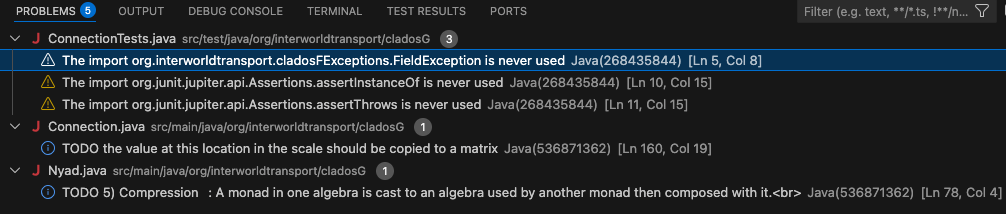
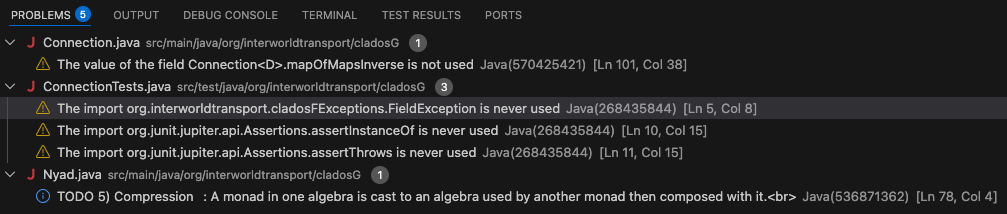
working on Connection's inverse map.

diff --git a/src/main/java/org/interworldtransport/cladosG/Connection.java b/src/main/java/org/interworldtransport/cladosG/Connection.java
@@ -68,8 +68,17 @@ public final class Connection<D extends ProtoN & Field & Normalizable> implement
 	 */
 	private Cardinal card;
 
-
-
+    /**
+     * This map is is a helper for transposing the cast operation. It has key/value pairs at every blade in the first
+     * algebra that is mapped to a blade in the second algebra. One key/value pair for each relationship. That makes
+     * this map a direct container for ordered pairs of blades. Both keys and values are fundamentally similar even
+     * if they are from different algebras because they are JUST blades. That makes the relationship is symmetric.
+     * Both sets of blades can be streamed to find related blades in the other algebra.
+     * <br><br>
+     * In this map, blades from algebra1 act as keys. Blades from algebra2 act as values. If a key/value pair is 
+     * inserted for (bladeX, bladeY) it means there is a weighted entry in mapOfMaps for bladeX's Scale for bladeY.
+     * <br><br>
+     */
     private TreeMap<Blade, Blade> mapOfBlades;
     
     /**
@@ -82,8 +91,25 @@ public final class Connection<D extends ProtoN & Field & Normalizable> implement
     private TreeMap<Blade, Scale<D>> mapOfMaps;
 
     /**
-	 * This is the type of ProtoN that should be present in the map of scales referenced by this class. For example, 
-	 * if mode = CladosField.REALF, then all elements in the list will be the RealF child of ProtoN. 
+     * This map is the inversed heart of this class. At the top level the key blades from the basis in 'algebra2' 
+     * are used to point at other maps (Scales) that contain key blades from the basis in 'algebra1' to number values. 
+     * That means the inner map is a linear combination of blades that collected into a set with the other blades 
+     * are a transformation from one blade set to the other. That makes this map an inverse of mapOfMaps if the weights
+     * are multiplicative inverses.
+     * <br><br>
+     */
+    private TreeMap<Blade, Scale<D>> mapOfMapsInverse;
+
+    /**
+     * This map is the counterpart to mapOfBlades that has an ordered pair of blades (BladeDuet) as keys and the kind 
+     * of numbers found in the Scales from mapOfMaps as values. The value IS the weight of the relationship between 
+     * the two blades in the ordered pair.
+     */
+    private TreeMap<BladeDuet, D> mapOfWeights;
+
+    /**
+	 * This is the type of ProtoN child that should be present in the map of scales referenced by this class. 
+     * For example, if mode = CladosField.REALF, then all elements in the list will be the RealF child of ProtoN. 
 	 * <br><br>
 	 * Mode ensures the scale elements all have the same precision and come from the same numeric field.
 	 */
@@ -113,6 +139,7 @@ public final class Connection<D extends ProtoN & Field & Normalizable> implement
         
         mapOfBlades = new TreeMap<>();
         mapOfMaps = new TreeMap<>();
+        mapOfWeights = new TreeMap<>();
         pA1.getBasis().bladeStream().forEach(b1 -> {                                                             //Pick a blade in the outer algebra. Don't go parallel.
             Scale<D> tScale = new Scale<D>(mode, pA2.getBasis(), card);                                          //Create a zero Scale using the inner algebra
             Optional<Blade> similar = pA2.getBasis().bladeStream().filter(b2 -> CanonicalBlade.equivalent(b1, b2)).findFirst(); //Find equivalent blade in inner algebra
@@ -127,22 +154,48 @@ public final class Connection<D extends ProtoN & Field & Normalizable> implement
                                                                                                                 //Zero scale or ONE at equivalent blade
             mapOfMaps.put(b1, tScale);                                                                          //Happens for every b1. Processing order doesn't matter.
         });
-        setBladesMap();
+        setAltMaps();
     }
 
     /**
      * This method sifts through the map of maps and rebuilds the blade lists to support connection transpose operations.
      */
-    private void setBladesMap() {
+    private void setAltMaps() {
         bladeStream().forEachOrdered(b1 -> {
             Scale<D> value = mapOfMaps.get(b1);
             value.getMap().keySet().stream().forEach(b2 -> {
                 mapOfBlades.put(b1, b2);
-                //TODO the value at this location in the scale should be copied to a matrix
+                mapOfWeights.put(new BladeDuet(b1, b2), mapOfMaps.get(b1).get(b2));
             });
         });
-
     }
+
+    /**
+     * This stream should produce the same output (blades from algebra1) as bladeStream(), but it does so by looking 
+     * at the mapOfBlades instead of the mapOfMaps. That means when you get the corresponding value from the pair you 
+     * get a single blade from algebra2.
+     * <br><br>
+     * The counterpart stream is blade2PairStream().
+     * <br><br>
+     * @return Stream of Blades from algebra1 that appear as keys in mapOfMaps
+     */
+    public Stream<Blade> blade1PairStream() {
+        return mapOfBlades.keySet().stream();
+    }
+
+    /**
+     * This stream would produce output blades from algebra2 like bladeStream() if mapOfMaps was transposed. It does so 
+     * by looking at the mapOfBlades instead. That means when you get the corresponding key from the pair you get a 
+     * single blade from algebra1.
+     * <br><br>
+     * The counterpart stream is blade1PairStream().
+     * <br><br>
+     * @return Stream of Blades from algebra2 that appear any Scale in mapOfMaps.
+     */
+    public Stream<Blade> blade2PairStream() {
+        return mapOfBlades.values().stream();
+    }
+
 
     /**
      * This is the blade stream of the outer map. These blades from algebra1 are keys paired up with Scales using algebra2.
@@ -174,7 +227,7 @@ public final class Connection<D extends ProtoN & Field & Normalizable> implement
         if (pM.sparseFlag)                                                  //Few grades in use, so blocks of zero weights are skipped
             pM  .bladeOfGradesStream()                                      //No parallelization (I think) because aggregating
                 .forEach(b1 -> {newScale.aggregate(                         //aggregate into the replacement Scale
-                                GBuilder.copyOfScale(getAt(b1))             //a copy of the relevant Scale
+                                GBuilder.copyOfScale(get(b1))             //a copy of the relevant Scale
                                         .scale(pM.get(b1)));                //weighted correctly for that blade. (Could be scaled by ZERO.)
                                }    //[the action for each non-zero blade in pM]
                         );          //[far edge of forEach loop]
@@ -182,7 +235,7 @@ public final class Connection<D extends ProtoN & Field & Normalizable> implement
             pM  .getWeights()
                 .bladesNotZeroStream()                                      //No parallelization (I think) because aggregating
                 .forEach(b1 -> {newScale.aggregate(                         //aggregate into the replacement Scale
-                                GBuilder.copyOfScale(getAt(b1))             //a copy of the relevant Scale
+                                GBuilder.copyOfScale(get(b1))             //a copy of the relevant Scale
                                         .scale(pM.get(b1)));                //weighted correctly for that blade. (Never scaled by ZERO.)
                                }    //[the action for each non-zero blade in pM]
                         );          //[far edge of forEach loop]
@@ -201,7 +254,7 @@ public final class Connection<D extends ProtoN & Field & Normalizable> implement
      * @param pB    Blade to use as the index for finding the Scale map
      * @return Scale of D which extend ProtoN and other numeric interfaces
      */
-    public Scale<D> getAt(Blade pB) {
+    public Scale<D> get(Blade pB) {
         if (algebra1.getBasis().hasBlade(pB))
             return mapOfMaps.get(pB);
         return null;

diff --git a/src/test/java/org/interworldtransport/cladosG/ConnectionTests.java b/src/test/java/org/interworldtransport/cladosG/ConnectionTests.java
@@ -69,25 +69,25 @@ public class ConnectionTests {
             assertFalse(tRF1.getAlgebra(false) == algSTA);
             assertFalse(tRF1.getAlgebra(false).compareTo(algSTA) < 0);
             assertTrue(tRF1.bladeStream().count() == tRF1.getAlgebra(true).getBladeCount());
-            assertTrue(tRF1.getAt(tRF1.getAlgebra(true).getBasis().getPScalarBlade()).bladesNotZeroStream().count() == 1); //Default constructor is Ken's connector
+            assertTrue(tRF1.get(tRF1.getAlgebra(true).getBasis().getPScalarBlade()).bladesNotZeroStream().count() == 1); //Default constructor is Ken's connector
             
             assertTrue(tRD1.getAlgebra(true) == algSTA);
             assertFalse(tRD1.getAlgebra(false) == algSTA);
             assertFalse(tRD1.getAlgebra(false).compareTo(algSTA) < 0);
             assertTrue(tRD1.bladeStream().count() == tRD1.getAlgebra(true).getBladeCount());
-            assertTrue(tRD1.getAt(tRD1.getAlgebra(true).getBasis().getPScalarBlade()).bladesNotZeroStream().count() == 1); //Default constructor is Ken's connector
+            assertTrue(tRD1.get(tRD1.getAlgebra(true).getBasis().getPScalarBlade()).bladesNotZeroStream().count() == 1); //Default constructor is Ken's connector
 
             assertTrue(tCF1.getAlgebra(true) == algSTA);
             assertFalse(tCF1.getAlgebra(false) == algSTA);
             assertFalse(tCF1.getAlgebra(false).compareTo(algSTA) < 0);
             assertTrue(tCF1.bladeStream().count() == tCF1.getAlgebra(true).getBladeCount());
-            assertTrue(tCF1.getAt(tCF1.getAlgebra(true).getBasis().getPScalarBlade()).bladesNotZeroStream().count() == 1); //Default constructor is Ken's connector
+            assertTrue(tCF1.get(tCF1.getAlgebra(true).getBasis().getPScalarBlade()).bladesNotZeroStream().count() == 1); //Default constructor is Ken's connector
 
             assertTrue(tCD1.getAlgebra(true) == algSTA);
             assertFalse(tCD1.getAlgebra(false) == algSTA);
             assertFalse(tCD1.getAlgebra(false).compareTo(algSTA) < 0);
             assertTrue(tCD1.bladeStream().count() == tCD1.getAlgebra(true).getBladeCount());
-            assertTrue(tCD1.getAt(tCD1.getAlgebra(true).getBasis().getPScalarBlade()).bladesNotZeroStream().count() == 1); //Default constructor is Ken's connector
+            assertTrue(tCD1.get(tCD1.getAlgebra(true).getBasis().getPScalarBlade()).bladesNotZeroStream().count() == 1); //Default constructor is Ken's connector
 
             //System.out.println(GExporter.toXMLFullString(tRF1));
         }

diff --git a/src/main/java/org/interworldtransport/cladosG/BladeDuet.java b/src/main/java/org/interworldtransport/cladosG/BladeDuet.java
@@ -44,7 +44,7 @@ import java.util.Collections;
  * @version 2.0
  * @author Dr Alfred W Differ
  */
-public final class BladeDuet {
+public final class BladeDuet implements Comparable<BladeDuet>{
 
 	/**
 	 * This method takes the set of generators in the offered blade and returns a blade with a set of generators that 
@@ -155,6 +155,40 @@ public final class BladeDuet {
 		bladeLeft = pB1;
 		bladeRight = pB2;
 		bladeDuet = new ArrayList<Generator>(30);
+	}
+
+	/**
+	 * The method needs to be as efficient as possible because it is used in comparators. It determines the 
+	 * sort order of ordered pairs of blades, thus the streaming order for key/value pairs.
+	 * <br><br>
+	 * The way this works is simple. If the left blades compare to +/-1, return that. If they compare to ZERO,
+	 * return the comparison of the right blades. This ensures the sort order in maps containing BladeDuets
+	 * will sort on the left blade first and then the right blade. Remember that blade comparisons use their
+	 * blade keys, so the net effect of this method for sorting BladeDuet will place them in the same order
+	 * as the blades appear in a Basis. 
+	 * <br><br>
+	 * @param pIn BladeDuet to be compared to this one
+	 * @return int in {-1, 0, 1} depending on the blade comparisons in the duet.
+	 */
+	@Override
+	public int compareTo(BladeDuet pIn) {
+		int testThis = this.bladeLeft.compareTo(pIn.bladeLeft);
+		if (testThis == 0)		return (this.bladeRight.compareTo(pIn.bladeRight));
+		else 					return testThis;
+	}
+
+	/**
+	 * Overridden Equals method from Object.
+	 * This ensures reference equality is the standard. They must literally refer to the same blade objects to be equal.
+	 * @return boolean check for reference equality
+	 */
+	@Override
+	public boolean equals(Object obj) {
+		if (obj == null)						return false;
+		if (! (obj instanceof BladeDuet)) 		return false;
+
+		return 		this.bladeLeft  == ((BladeDuet) obj).bladeLeft 
+				& 	this.bladeRight == ((BladeDuet) obj).bladeRight;
 	}
 
 	/**

diff --git a/src/main/java/org/interworldtransport/cladosG/Blade.java b/src/main/java/org/interworldtransport/cladosG/Blade.java
@@ -421,17 +421,15 @@ public class Blade implements CanonicalBlade, Comparable<Blade> {
 	}
 
 	/**
-	 * The method needs to be as efficient as possible because it is used in comparators.
-	 * It determines the sort order of blades in a basis, thus the streaming order for
-	 * coefficients in a Scale.
-	 * <br>
-	 * This function is WHY Blades keep a Long key. The bit key suffices to distinguish
-	 * blades, but not to sort them into grades in a basis.
-	 * <br>
+	 * The method needs to be as efficient as possible because it is used in comparators. It determines 
+	 * the sort order of blades in a basis, thus the streaming order for coefficients in a Scale.
+	 * <br><br>
+	 * This function is WHY Blades keep a Long key. The bit key suffices to distinguish blades, but not 
+	 * to sort them into grades in a basis.
+	 * <br><br>
 	 * @param pIn Blade to be compared to this one
-	 * @return int in {-1, 0, 1} depending on the size of the offered blade's long
-	 *         integer key relative to this one. If the incoming long key is larger
-	 * 		   the integer returned is +1.
+	 * @return int 	in {-1, 0, 1} depending on the size of the offered blade's long integer key relative 
+	 * 				to this one. If the incoming long key is larger the integer returned is +1.
 	 */
 	@Override
 	public int compareTo(Blade pIn) {

diff --git a/src/main/java/org/interworldtransport/cladosG/GExporter.java b/src/main/java/org/interworldtransport/cladosG/GExporter.java
@@ -710,7 +710,7 @@ public class GExporter {
 		rB	.append(GExporter.toXMLString(pC.getAlgebra(true), "\t"));
 		rB	.append(GExporter.toXMLString(pC.getAlgebra(false), "\t"));
 
-		pC.blade1Stream().forEach(blade -> {
+		pC.bladeStream().forEach(blade -> {
 			rB	.append("\t").append("<OuterMap>\n");
 			rB	.append("\t").append(GExporter.toXMLString(blade, "\t"));
 			rB	.append("\t").append(GExporter.toXMLString(pC.get(blade), "\t"));
